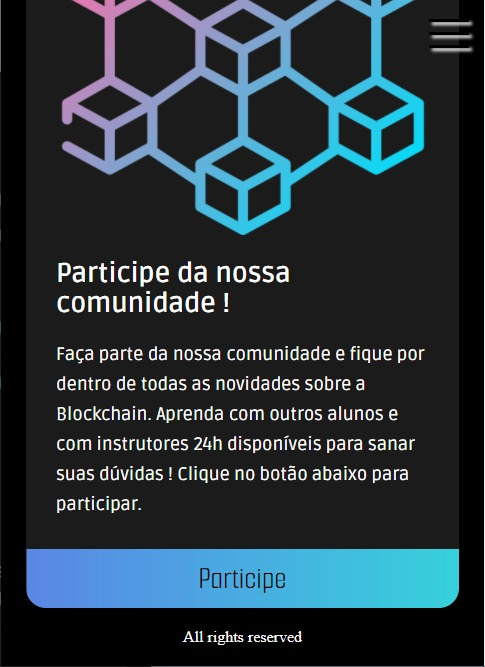
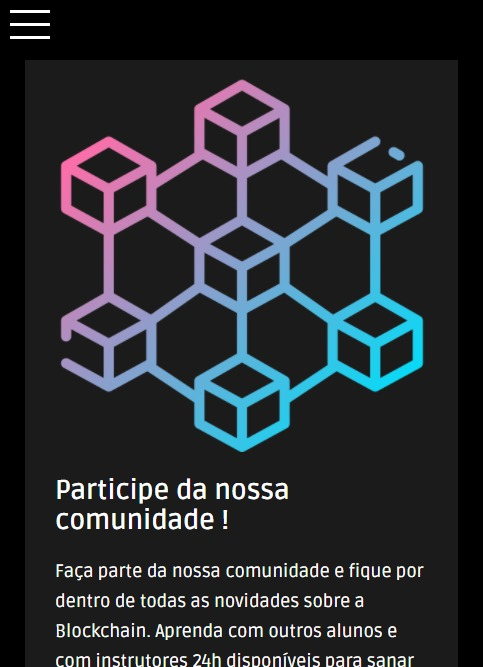
Design Update

diff --git a/style.css b/style.css
@@ -40,12 +40,13 @@ body{
 #m{
     position:absolute;
 }
-#wrapper_menu{
+#side_bar{
     z-index: 100;
     position:fixed;
     width:400px;
     height:100vh;
-    right:-325px;
+    right:-325px; 
+    
    
     /* background-color: black; */
     border-bottom-left-radius: 20px;
@@ -57,28 +58,24 @@ body{
     -webkit-transition:right 1s ease-in-out, background-color 1s ease-in-out, box-shadow 1s ease-in-out;
 }
 
-#wrapper_menu.openMenu{
+#side_bar.openMenu{
     right:0;
-    background-color: #fff;
+    
 }
 
 .list_item{
     list-style: none;
-    
     padding:20px;
 
 }
-.side_bar ul{
-
-    position:absolute;
+#side_bar ul{
+    position:relative; 
     text-align: center;
-
-    top:40%;
-    left:50%;
-    transform:translate(-50%,-40%);    
-
+    font-size:25px;
+    top:50px;
+    
 }
-.side_bar p{
+#side_bar p{
 
     color:rgb(0, 0, 0);
     font-family:"Ruda",sans-serif;
@@ -87,8 +84,8 @@ body{
     transition:.5s;
 
 }
-.side_bar p:hover{  
-    transform:translateX(10%);
+#side_bar p:hover{  
+    transform:translateX(5%);
 }
 
 #hamburguer_menu{
@@ -112,14 +109,16 @@ body{
 }
 
 #linha1.openMenu{
-    top:13px;
+    
+    top:12px;
     transform:rotate(45deg);
 }
 #linha2.openMenu{
-    display:none;
+    display: none;
 }
     
 #linha3.openMenu{
+    
     transform:rotate(-45deg);
 }
 
@@ -130,10 +129,9 @@ body{
 
 #wrapped_content{
     position:relative;
-    display:inline-block;
+    display:block;
 
-    border-top-right-radius:20px ;
-    border-bottom-right-radius:20px ;
+    border-radius: 10px;
     margin-top:10px;
     overflow: hidden;
     background-color:rgba(46, 45, 45, 0.6);
@@ -163,6 +161,7 @@ body{
     
 }
 #ask2{
+    
     position:relative;
     display:inline-block;
 
@@ -191,8 +190,7 @@ body{
     position:relative;
     display:inline-block;
     
-    border-top-left-radius:20px ;
-    border-bottom-left-radius:20px ;
+    border-radius: 10px;
     margin-top:10px;
     overflow: hidden;
     background-color:rgba(46, 45, 45, 0.6);
@@ -398,6 +396,8 @@ body{
         float:none;
         display: block;
         max-width:100%;
+        margin:0;
+        
     }
 
     #wrapped_content2{
@@ -430,7 +430,7 @@ body{
         float:none;
         display: block;
         max-width:100%;
-
+        margin:0;
     }
     #participe_btn{
         position:relative;
@@ -441,11 +441,78 @@ body{
 
 
 @media (max-width:900px){
-  
-    #wrapper_menu{
-        background-color: rgba(255, 255, 255,.0);
+
+    #side_bar{
+        left:0;
+        top:-300px;
+    
+
+        background-color: rgb(0, 0, 0);
+        box-shadow: none;
+        width:100%;
+        height:360px;
+        border-radius: 0px;
+        transition: top 1s;
 
     }
+
+    #side_bar ul{
+     width:100%;  
+     text-align: right;
+    }
+
+
+    #hamburguer_menu{
+        position:absolute;
+        display: block;
+        bottom:0;
+        margin:10px;
+        
+    }
+
+    #side_bar p{
+        color:white;
+        transition:none;
+        padding:15px;
+    }
+
+    #side_bar p:hover{
+        transform:none;
+        color:black;
+        font-weight: 700;
+
+    }
+
+    .list_item{
+        padding:0;
+        display: block;
+    }
+
+    .list_item:hover{
+        background-color:white;
+        color:black;
+    }
+
+   
+    #side_bar.resizedMobileMenu{
+        top:-50px; 
+    }
+
+
+    #linha1.resizedMobileMenu{
+    
+        top:12px;
+        transform:rotate(45deg);
+    }
+    #linha2.resizedMobileMenu{
+        display: none;
+    }
+        
+    #linha3.resizedMobileMenu{
+        
+        transform:rotate(-45deg);
+    }
+
      #fullContent{
         margin:auto;
         width:calc(100% - 10vw);
@@ -454,21 +521,27 @@ body{
         
     } 
     .linhas{
-        background-color: rgb(0, 0, 0);
-        box-shadow: 3px 3px 3px rgb(255, 255, 255);
+        
+        background-color: white;
 
         
     }
-    #wrapper_menu{
-        box-shadow:none;
+    .list_item:hover{
+        cursor: pointer;
     }
 }
 
 @media (max-width:600px){
     #bg{
-        height:45vh;
-        background-size: contain;
-        background-position: top;
+        margin-top:60px;
+        position:relative;
+        background-attachment: scroll;
+        height:50vh;
+        width: 100%;
+        background-size: cover;
+        background-position:center;
+
+        background-color: #36D1DC;
     }
 }
 
@@ -510,7 +583,7 @@ input{
     border:none;
     margin-bottom:20px;
 
-   
+   border-bottom: 1px solid rgba(0, 0, 0,.2);
     
     
 }
@@ -526,13 +599,15 @@ input:focus{
     width: 100%;
     border:none;
     color:white;
-    padding:10px;
+    padding:15px;
 
     background: #36D1DC; 
     background: -webkit-linear-gradient(to right, #5B86E5, #36D1DC);  
     background: linear-gradient(to right, #5B86E5, #36D1DC); 
 
     border-radius: 10px;
+    font-size:18px;
+    font-family: Ruda,sans-serif;
 
     transition:transform 1s;
 

diff --git a/index.html b/index.html
@@ -12,8 +12,13 @@
 
     <section id="m">
         <div id="wrapper_menu">
-            <div class="side_bar">
+            <div id="side_bar">
                 <nav>
+                    <div id="hamburguer_menu">
+                        <div class="linhas" id="linha1"></div>
+                        <div class="linhas" id="linha2"></div>
+                        <div class="linhas" id="linha3"></div>
+                    </div>
                     <ul>
                         <a href="#"><li class="list_item"><p>Blockchain</p></li></a>
                         <a href="#"><li class="list_item"><p>Criptoverso</p></li></a>
@@ -21,11 +26,8 @@
                         <a href="#"><li class="list_item"><p>Contato</p></li></a>
                     </ul>
 
-                    <div id="hamburguer_menu">
-                        <div class="linhas" id="linha1"></div>
-                        <div class="linhas" id="linha2"></div>
-                        <div class="linhas" id="linha3"></div>
-                    </div>
+                    
+
                 </nav>
             </div>
         </div>
@@ -45,7 +47,7 @@
     
                 <div id="ask2">
                     <h1 style="margin-bottom:20px;font-size:32px;">O que é Blockchain ?</h1>
-                    <p>De forma resumida, <mark style="background-color:rgb(64, 185, 255);padding:4px">blockchain é um sistema que permite rastrear o envio e recebimento de alguns tipos de informação pela internet.</mark> São pedaços de código gerados online que carregam informações conectadas – como blocos de dados que formam uma corrente – daí o nome. </p>
+                    <p>De forma resumida, blockchain é um sistema que permite rastrear o envio e recebimento de alguns tipos de informação pela internet.<mark style="background-color: rgb(58, 160, 255);"><strong>São pedaços de código gerados online</strong></mark> que carregam informações conectadas – como blocos de dados que formam uma corrente – daí o nome. </p>
                 </div>
                 </div>
         </section>
@@ -59,7 +61,7 @@
     
                 <div id="ask_ctt2">
                     <h1 style="margin-bottom:20px;font-size:32px;">Blockchain é a mesma coisa que bitcoin? </h1>
-                    <p>Não. Blockchain é a tecnologia que possibilitou a criação da bitcoin e de outras criptomoedas, como Ether e Litecoin, mas ela pode ser usada para diversas outras aplicações.</p>
+                    <p>Não. <mark style="background-color: rgb(58, 160, 255);"><strong>Blockchain é a tecnologia que possibilitou a criação da bitcoin e de outras criptomoedas</strong></mark>, como Ether e Litecoin, mas ela pode ser usada para diversas outras aplicações.</p>
                 </div>
     
     

diff --git a/script.js b/script.js
@@ -1,9 +1,14 @@
 document.getElementById("hamburguer_menu").onclick = function(){
-    document.getElementById("wrapper_menu").classList.toggle("openMenu") ; 
+    document.getElementById("side_bar").classList.toggle("openMenu") ; 
     document.getElementById("linha1").classList.toggle("openMenu");
     document.getElementById("linha2").classList.toggle("openMenu");
     document.getElementById("linha3").classList.toggle("openMenu");
-    document.getElementById("mainImg").classList.toggle("openMenu");
+    document.getElementById("side_bar").classList.toggle("resizedMobileMenu");
+    document.getElementById("linha1").classList.toggle("resizedMobileMenu");
+    document.getElementById("linha2").classList.toggle("resizedMobileMenu");
+    document.getElementById("linha3").classList.toggle("resizedMobileMenu");
+
+    
 }
 
 var aboutUs_object = {
@@ -70,3 +75,5 @@ document.getElementById("participe_btn").onclick = function(){
     this.classList.toggle("subscribe") ; 
     
 }
+
+
